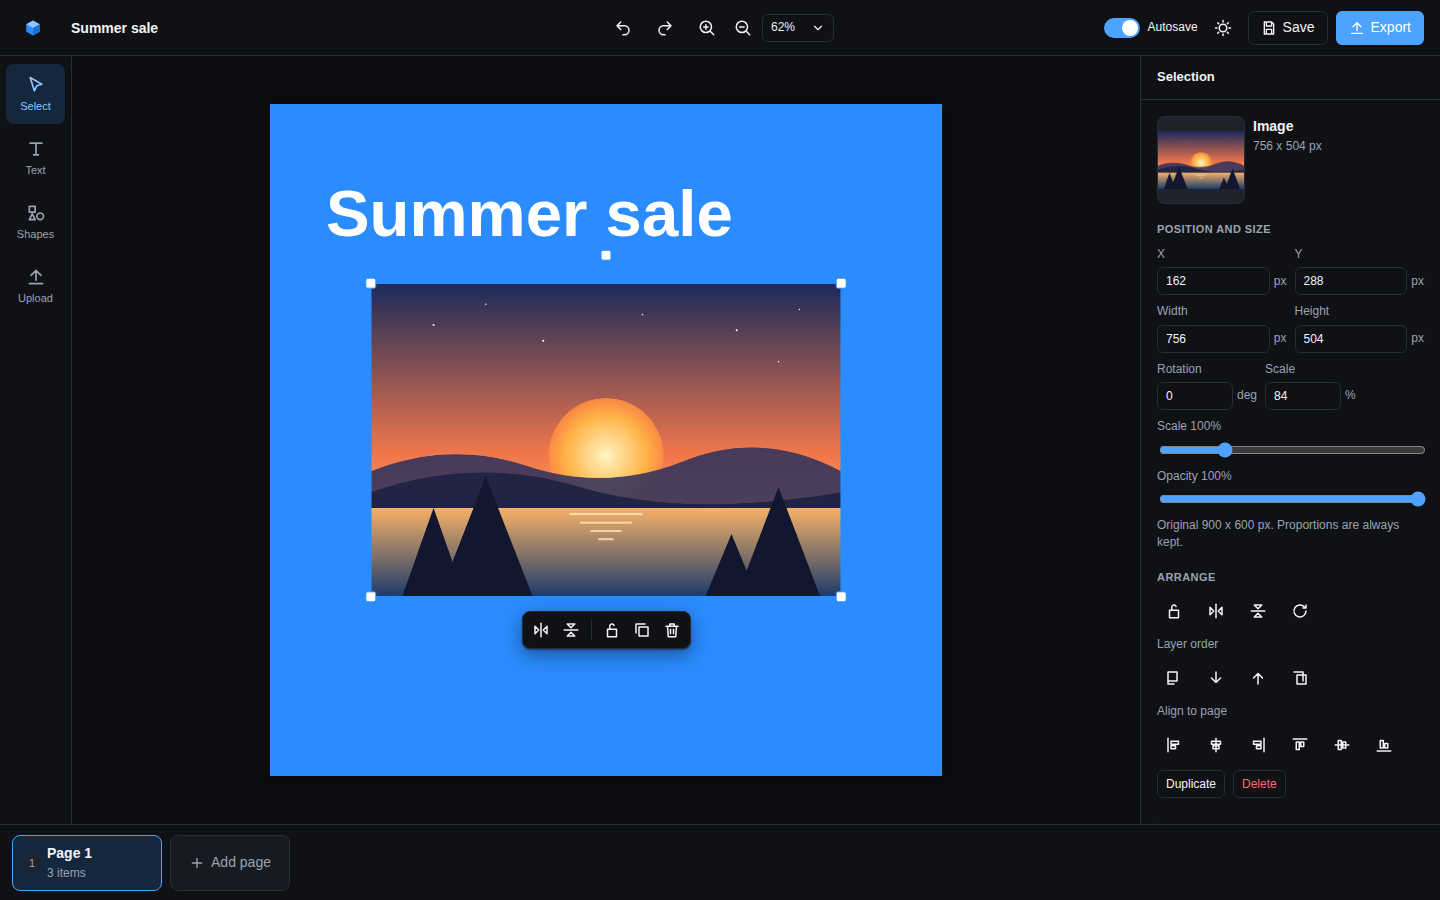
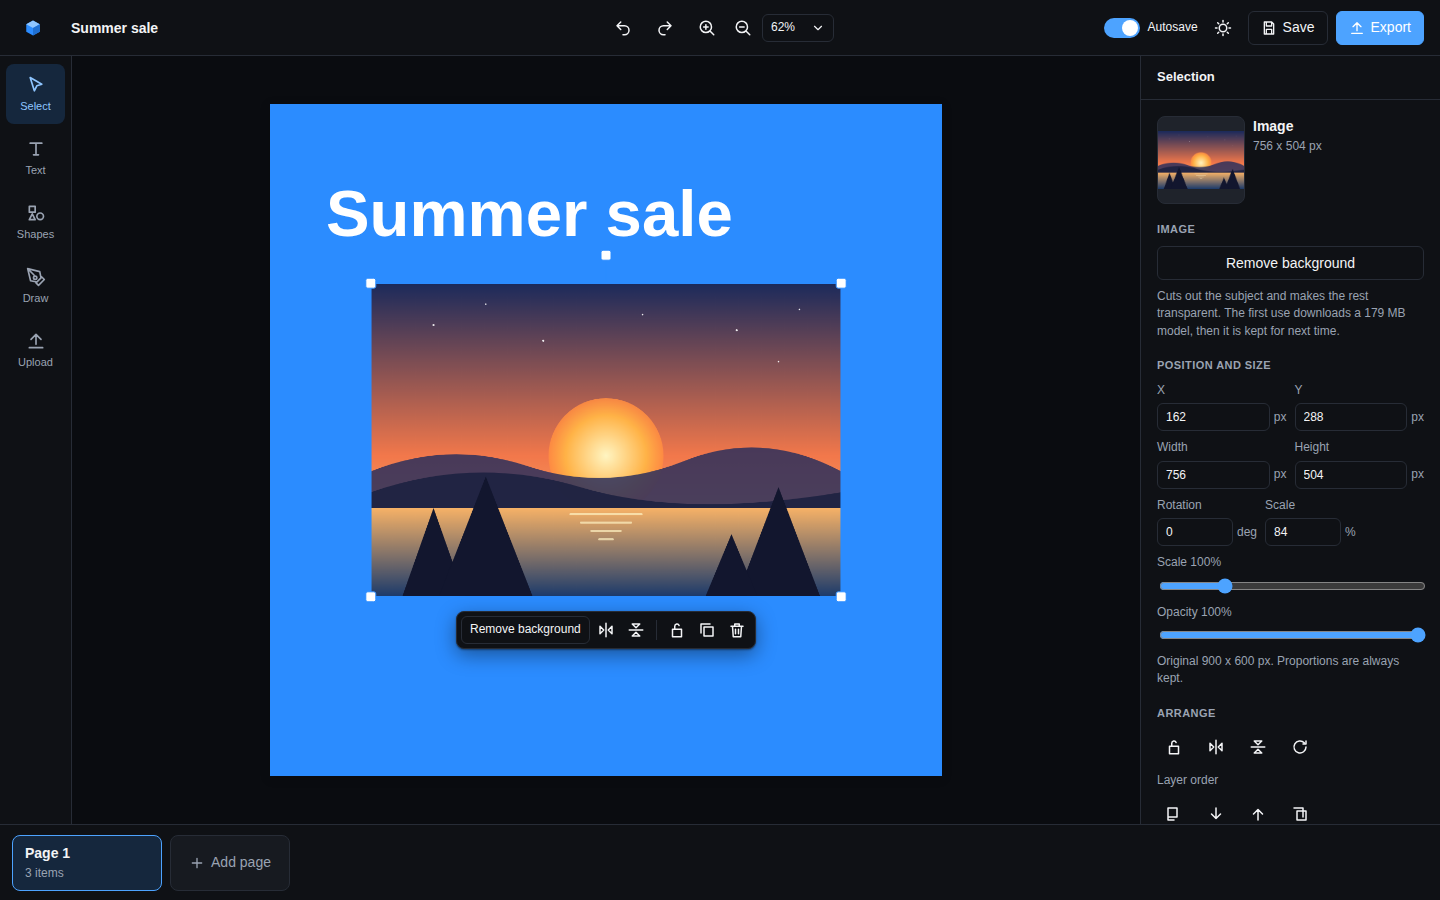
Document the shapes, the draw tool and the model
Claude-Session: https://claude.ai/code/session_015XrpCTkV8wPXXw1FhfY9i3

diff --git a/README.md b/README.md
@@ -14,7 +14,8 @@ I built it because I was tired of using Canva and being limited on features that
 
 ## What you get
 
-- Text, shapes and images on as many pages as you like, with undo and redo.
+- Text, images and thirty shapes on as many pages as you like, with undo and redo.
+- A draw tool for shapes of your own: click corners or drag freehand, straight or curved sides, open or closed.
 - More than 250 fonts, a colour picker with the colours your project already uses at the top, and a floating toolbar next to whatever you select.
 - Resize from the corners, rotate, flip, lock, align and reorder. Alignment guides snap to the page and to other items.
 - Export at any size as PNG, JPG, WebP or PDF, with a transparent background where the format allows it.
@@ -45,7 +46,7 @@ npm run lint       # eslint
 
 Two places offer it. In the editor, select an image and press "Remove background" in the toolbar, the side panel or the right click menu. The cutout replaces the image as one undo step. On the Remove background page, drop, paste or pick as many pictures as you like. They are cut out one after another, the strip on the left switches between them (or use the left and right arrow keys), and the panel on the right downloads the one you are looking at as PNG or WebP at any size, or all of them at once as a ZIP.
 
-It runs entirely in the browser with the silueta model from the open source [rembg](https://github.com/danielgatis/rembg) project, on WebAssembly in a web worker. The first use downloads the model (44 MB) and keeps it in the browser's cache, so later uses start straight away. Each picture takes from under a second to several seconds depending on the computer. There is no server side to it, so the hosted version has it too.
+It runs entirely in the browser with the ISNet model (isnet-general-use from the open source [rembg](https://github.com/danielgatis/rembg) project), the best of the cutout models that fit in a browser. With graphics card access it runs on WebGPU and takes a second or two per picture. Without it, it runs on WebAssembly and takes several seconds. The first use downloads the model (179 MB) and keeps it in the browser's cache, so later uses start straight away. There is no server side to it, so the hosted version has it too, and nothing you add is kept once you leave the page.
 
 ## Shortcuts
 
@@ -58,7 +59,8 @@ It runs entirely in the browser with the silueta model from the open source [rem
 | Ctrl+D | Duplicate |
 | Delete | Remove selection |
 | Arrows, Shift+Arrows | Nudge by 1 px or 10 px |
-| V, T | Pointer tool, text tool |
+| V, T, P | Pointer tool, text tool, draw tool |
+| Enter, Backspace, Escape | While drawing: finish the shape, take a corner back, start over |
 | Ctrl+Plus, Ctrl+Minus, Ctrl+0 | Zoom in, zoom out, fit |
 | Escape | Deselect or finish editing text |
 | Ctrl+Wheel | Zoom around the pointer |
@@ -69,8 +71,8 @@ It runs entirely in the browser with the silueta model from the open source [rem
 Next.js 15 with the App Router. Four routes: `/` (your projects), `/remove-bg` (batch background removal), `/new` (pick a size) and `/editor/[projectId]`.
 
 - `src/model`: the project, page and element types, plus factories.
-- `src/data`: presets, fonts, colours and shape geometry.
-- `src/lib`: browser free helpers: geometry, snapping, IndexedDB, ZIP writing, image loading, popover and toolbar placement, colour extraction, and the export renderer under `src/lib/export`. `src/lib/background` holds the cutout model's maths and the worker that runs it, `src/lib/remove-bg` the sizing and download helpers of the remove background page.
+- `src/data`: presets, fonts, colours and shape geometry, including the point lists and paths behind every shape.
+- `src/lib`: browser free helpers: geometry, snapping, IndexedDB, ZIP writing, image loading, popover and toolbar placement, colour extraction, stroke simplification for the draw tool, and the export renderer under `src/lib/export`. `src/lib/background` holds the cutout model's maths and the worker that runs it, `src/lib/remove-bg` the sizing and download helpers of the background remover.
 - `src/store`: the zustand stores. `project-store` holds the open project, selection, live previews and undo history and is split into slices. `editor-ui-store` holds tool, panel, zoom, pan and the open menus.
 - `src/services/background-removal.ts`: the main thread side of the remover. It starts the worker and hands it pictures one at a time.
 - `src/hooks`: React hooks for saving, autosave, shortcuts, theme, settings, live updates and the removal queue.
